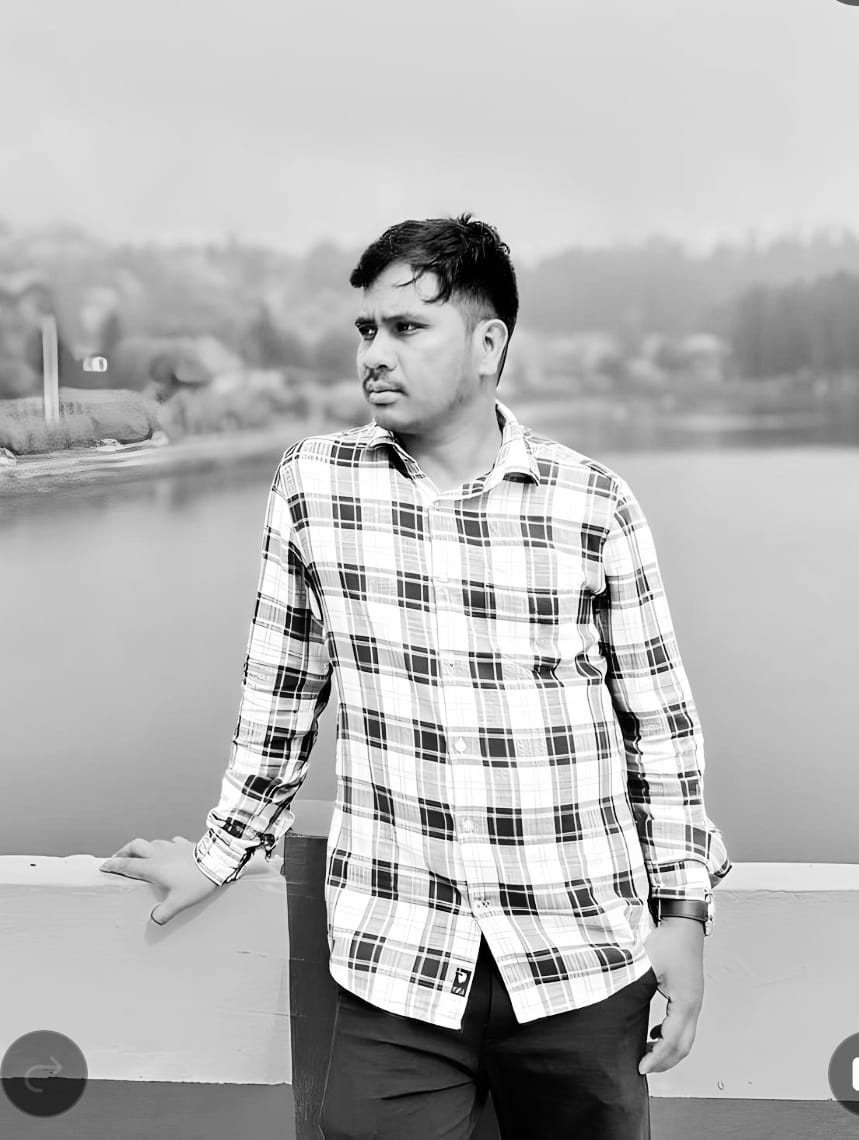
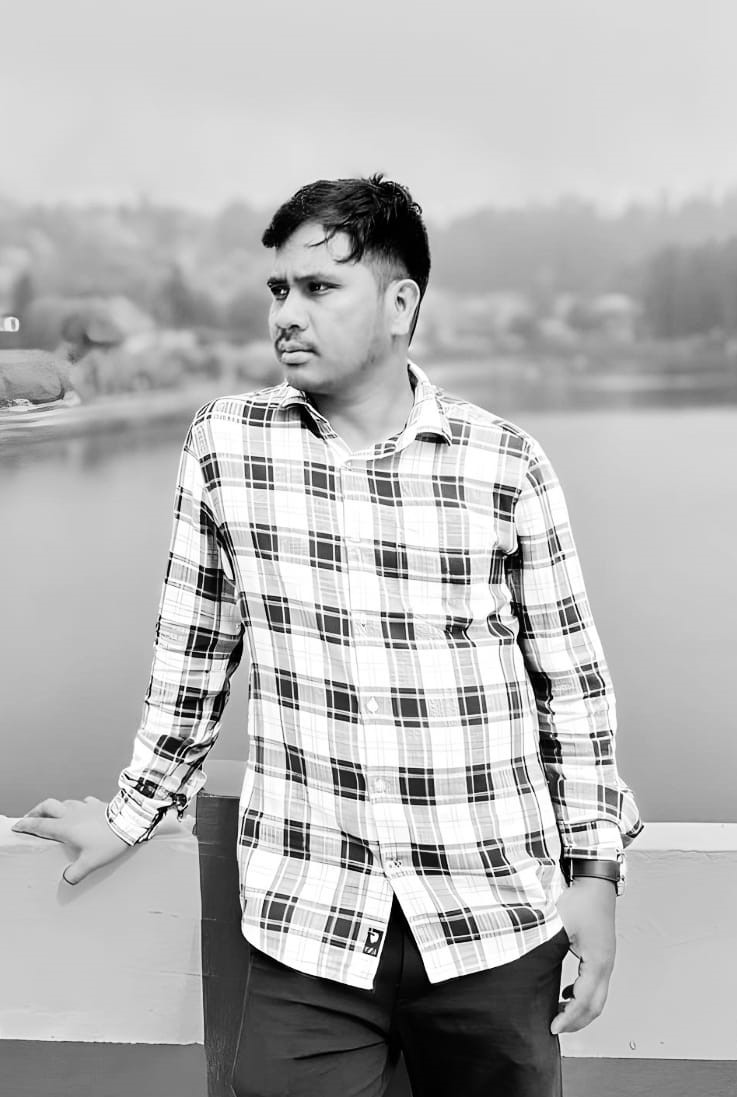
Hero section updated

diff --git a/index.html b/index.html
@@ -58,7 +58,7 @@
 			<div class="text-center">
 				<div class="author-img" style="background-image: url(./images/profile1.jpeg);"></div>
 				<h1 id="colorlib-logo"><a href="index.html">Anil Roy</a></h1>
-				<span class="position"><a href="#">Web Developer</a> in India</span>
+				<span class="position"><a href="#">Web Developer | Mentor</a> in India</span>
 			</div>
 			<nav id="colorlib-main-menu" role="navigation" class="navbar">
 				<div id="navbar" class="collapse">
@@ -110,7 +110,7 @@ Copyright <script>document.write(new Date().getFullYear());</script> All rights 
 					   		</div>
 				   		</div>
 				   	</li>
-				   	<li style="background-image: url(images/img_bg_2.jpg);">
+				   	<li style="background-image: url(./images/profile.jpeg); width:auto; height: 1100px;">
 				   		<div class="overlay"></div>
 				   		<div class="container-fluid">
 				   			<div class="row">
@@ -518,8 +518,11 @@ Copyright <script>document.write(new Date().getFullYear());</script> All rights 
 					               </div>
 
 					               <div class="timeline-label">
-					                  <h2><a href="#">Full Stack Developer</a> <span>2017-2018</span></h2>
-					                  <p>Tolerably earnestly middleton extremely distrusts she boy now not. Add and offered prepare how cordial two promise. Greatly who affixed suppose but enquire compact prepare all put. Added forth chief trees but rooms think may.</p>
+					                  <h2><a href="#">Full Stack Developer</a> <span>2020-2024</span></h2>
+					                  <p>Designed and developed user interfaces using HTML, CSS, and JavaScript.Implemented responsive design principles to ensure compatibility across devices and screen sizes.
+										Utilized frameworks and libraries such as React, Angular, or Vue.js to create dynamic and interactive web applications.Developed server-side applications and APIs using technologies like Node.js, Python (Django/Flask), Ruby on Rails, or Java (Spring).
+										Managed database systems including SQL (PostgreSQL, MySQL) and NoSQL (MongoDB, Firebase).
+									  </p>
 					               </div>
 					            </div>
 					         </article>
@@ -531,8 +534,12 @@ Copyright <script>document.write(new Date().getFullYear());</script> All rights 
 					                  <i class="icon-pen2"></i>
 					               </div>
 					               <div class="timeline-label">
-					               	<h2><a href="#">Front End Developer at Google Company</a> <span>2017-2018</span></h2>
-					                  <p>Even the all-powerful Pointing has no control about the blind texts it is an almost unorthographic life One day however a small line of blind text by the name of Lorem Ipsum decided to leave for the far World of Grammar.</p>
+					               	<h2><a href="#">Front End Developer</a> <span>2016-2017</span></h2>
+					                  <p>Developed responsive and user-friendly interfaces using HTML, CSS, and JavaScript.
+										Built dynamic applications with React, Angular, or Vue.js.
+										Optimized performance and ensured cross-browser compatibility.
+										Collaborated with designers and back-end developers, and managed code with Git.
+										Implemented and maintained unit and end-to-end tests.</p>
 					               </div>
 					            </div>
 					         </article>
@@ -543,8 +550,11 @@ Copyright <script>document.write(new Date().getFullYear());</script> All rights 
 					                  <i class="icon-pen2"></i>
 					               </div>
 					               <div class="timeline-label">
-					               	<h2><a href="#">System Analyst</a> <span>2017-2018</span></h2>
-					                  <p>Even the all-powerful Pointing has no control about the blind texts it is an almost unorthographic life One day however a small line of blind text by the name of Lorem Ipsum decided to leave for the far World of Grammar.</p>
+					               	<h2><a href="#">System Analyst</a> <span>2021-2022</span></h2>
+					                  <p>Gathered and documented business requirements.
+										Designed system solutions and created technical specifications.
+										Coordinated with development teams and conducted system testing.
+										Provided user support and maintained system documentation.</p>
 					               </div>
 					            </div>
 					         </article>
@@ -555,8 +565,10 @@ Copyright <script>document.write(new Date().getFullYear());</script> All rights 
 					                  <i class="icon-pen2"></i>
 					               </div>
 					               <div class="timeline-label">
-					               	<h2><a href="#">Creative Designer</a> <span>2017-2018</span></h2>
-					                  <p>Even the all-powerful Pointing has no control about the blind texts it is an almost unorthographic life One day however a small line of blind text by the name of Lorem Ipsum decided to leave for the far World of Grammar.</p>
+					               	<h2><a href="#">Creative Designer</a> <span>2021-2022</span></h2>
+					                  <p>Designed visual content for digital and print using Canva Pro.
+										Developed concepts, wireframes, and prototypes for web and mobile.
+										Collaborated with clients and teams to create and refine designs..</p>
 					               </div>
 					            </div>
 					         </article>
@@ -567,8 +579,11 @@ Copyright <script>document.write(new Date().getFullYear());</script> All rights 
 					                  <i class="icon-pen2"></i>
 					               </div>
 					               <div class="timeline-label">
-					               	<h2><a href="#">UI/UX Designer at Envato</a> <span>2017-2018</span></h2>
-					                  <p>Even the all-powerful Pointing has no control about the blind texts it is an almost unorthographic life One day however a small line of blind text by the name of Lorem Ipsum decided to leave for the far World of Grammar.</p>
+					               	<h2><a href="#">UI/UX Designer Eteam</a> <span>2022-2023</span></h2>
+					                  <p>Designed user interfaces and prototypes using Figma and Canva Pro.
+										Conducted user research and usability testing to improve user experience.
+										Collaborated with teams to refine and implement design solutions.Worked with developers,
+										 product managers, and stakeholders to align designs with project goals and technical constraints.</p>
 					               </div>
 					            </div>
 					         </article>
@@ -711,9 +726,10 @@ Copyright <script>document.write(new Date().getFullYear());</script> All rights 
 							<div class="blog-entry">
 								<a href="blog.html" class="blog-img"><img src="images/blog-1.jpg" class="img-responsive" alt="HTML5 Bootstrap Template by colorlib.com"></a>
 								<div class="desc">
-									<span><small>April 14, 2018 </small> | <small> Web Design </small> | <small> <i class="icon-bubble3"></i> 4</small></span>
+									<span><small>April 14, 2024 </small> | <small> Web Design </small> | <small> <i class="icon-bubble3"></i> 4</small></span>
 									<h3><a href="blog.html">Renovating National Gallery</a></h3>
-									<p>Separated they live in Bookmarksgrove right at the coast of the Semantics, a large language ocean.</p>
+									<p>Improved navigation and user satisfaction.
+										Increased online engagement and accessibility.Conducted usability studies to refine the digital experience.</p>
 								</div>
 							</div>
 						</div>
@@ -721,9 +737,10 @@ Copyright <script>document.write(new Date().getFullYear());</script> All rights 
 							<div class="blog-entry">
 								<a href="blog.html" class="blog-img"><img src="images/blog-2.jpg" class="img-responsive" alt="HTML5 Bootstrap Template by colorlib.com"></a>
 								<div class="desc">
-									<span><small>April 14, 2018 </small> | <small> Web Design </small> | <small> <i class="icon-bubble3"></i> 4</small></span>
+									<span><small>May 21, 2024 </small> | <small> Web Design </small> | <small> <i class="icon-bubble3"></i> 4</small></span>
 									<h3><a href="blog.html">Wordpress for a Beginner</a></h3>
-									<p>Separated they live in Bookmarksgrove right at the coast of the Semantics, a large language ocean.</p>
+									<p>WordPress is a fantastic platform to begin with. It’s user-friendly and highly customizable, making it perfect for 
+										both beginners and experienced developers. Here’s a quick guide to help you get started.</p>
 								</div>
 							</div>
 						</div>
@@ -731,9 +748,11 @@ Copyright <script>document.write(new Date().getFullYear());</script> All rights 
 							<div class="blog-entry">
 								<a href="blog.html" class="blog-img"><img src="images/blog-3.jpg" class="img-responsive" alt="HTML5 Bootstrap Template by colorlib.com"></a>
 								<div class="desc">
-									<span><small>April 14, 2018 </small> | <small> Inspiration </small> | <small> <i class="icon-bubble3"></i> 4</small></span>
+									<span><small>August 20, 2024 </small> | <small> Inspiration </small> | <small> <i class="icon-bubble3"></i> 4</small></span>
 									<h3><a href="blog.html">Make website from scratch</a></h3>
-									<p>Separated they live in Bookmarksgrove right at the coast of the Semantics, a large language ocean.</p>
+									<p> Determine the purpose of your website and your target audience.
+                                        Choose Your Tools: Decide between website builders (e.g., Wix), content management systems (e.g., WordPress), 
+										or custom development with HTML/CSS/JavaScript..</p>
 								</div>
 							</div>
 						</div>
@@ -761,7 +780,7 @@ Copyright <script>document.write(new Date().getFullYear());</script> All rights 
 									<i class="icon-globe-outline"></i>
 								</div>
 								<div class="colorlib-text">
-									<p><a href="#">info@domain.com</a></p>
+									<p><a href="#">anil.cce@gmail.com</a></p>
 								</div>
 							</div>
 
@@ -770,7 +789,7 @@ Copyright <script>document.write(new Date().getFullYear());</script> All rights 
 									<i class="icon-map"></i>
 								</div>
 								<div class="colorlib-text">
-									<p>198 West 21th Street, Suite 721 New York NY 10016</p>
+									<p>Jalpaiguri, West Bengal, India-735101</p>
 								</div>
 							</div>
 
@@ -779,7 +798,7 @@ Copyright <script>document.write(new Date().getFullYear());</script> All rights 
 									<i class="icon-phone"></i>
 								</div>
 								<div class="colorlib-text">
-									<p><a href="tel://">+123 456 7890</a></p>
+									<p><a href="tel://"> +91-7047419282</a></p>
 								</div>
 							</div>
 						</div>
